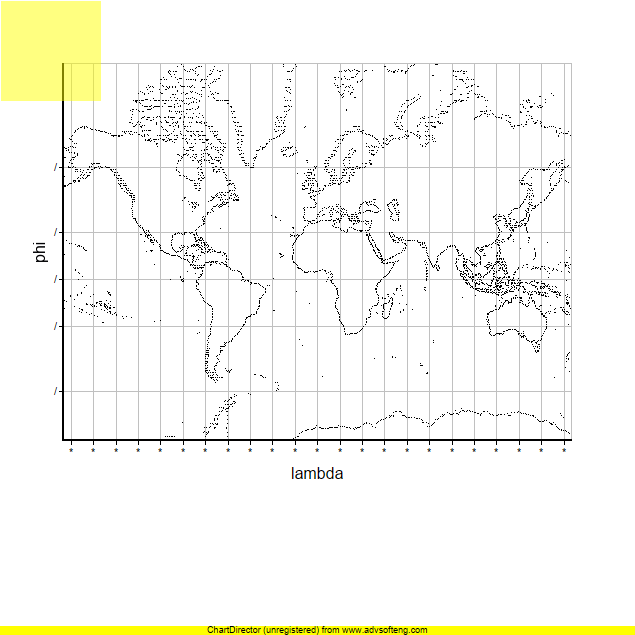
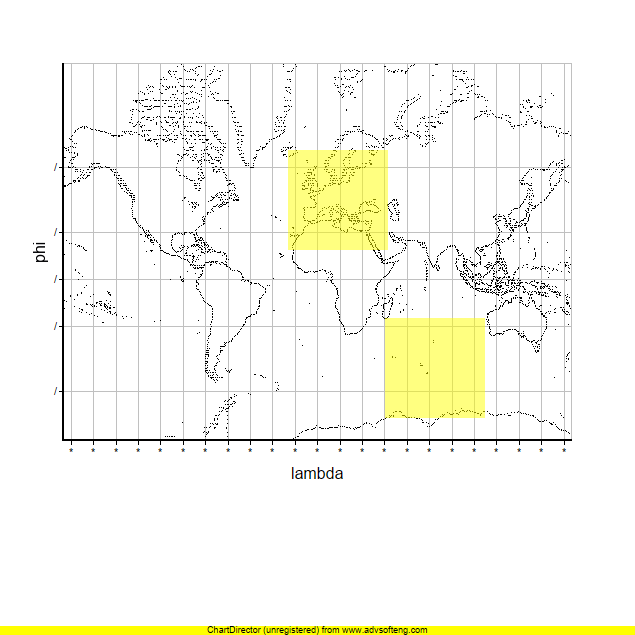
Now I can correctly draw a rectangle whose top left edge is at the position of the start click of the mouse ! :DDDDDDD

Changed region(s): [[0.4488, 0.2094, 0.6283, 0.4189], [0.5984, 0.4787, 0.778, 0.6583], [0.0, 0.0, 0.1795, 0.1795]]

diff --git a/lib_gui.h b/lib_gui.h
@@ -569,7 +569,7 @@ public:
     ListFrame* parent;
     XYChart* c;
     wxStaticText* text_lambda, *text_phi;
-    wxPoint position_image, position_plot_area;
+    wxPoint position_image, position_plot_area, position_screen_start, position_screen_end;
     wxSize size_plot_area;
     wxPanel *panel;
     wxBoxSizer *sizer_coordinates, *sizer_v;
@@ -1173,6 +1173,7 @@ void ChartFrame::OnMouseRightDown(wxMouseEvent &event){
 //
         
         GetMouseGeoPosition(&p_start);
+        position_screen_start = wxGetMousePosition();
 
         cout << "p_start = {" << (p_start.lambda).to_string(String("EW"), display_precision) << " , " << (p_start.phi).to_string(String("NS"), display_precision) << " }\n";
 
@@ -1183,11 +1184,15 @@ void ChartFrame::OnMouseRightDown(wxMouseEvent &event){
 //        ((parent->plot)->lambda_max) = (p.lambda);
 //        ((parent->plot)->phi_max) = (p.phi);
         GetMouseGeoPosition(&p_end);
+        position_screen_end = wxGetMousePosition();
+
 
         cout << "p_end = {" << (p_end.lambda).to_string(String("EW"), display_precision) << " , " << (p_end.phi).to_string(String("NS"), display_precision) << " }\n";
 
         //add the rectangle to c
-        box = (c->addText(1, 1, ""));
+        box = (c->addText(((position_screen_start.x)-((position_image.x))),
+                          ((position_screen_start.y)-((position_image.y))),
+                          ""));
         box->setSize(100, 100);
         box->setBackground(0x80ffff00);
         c->makeChart(path_file_chart);
